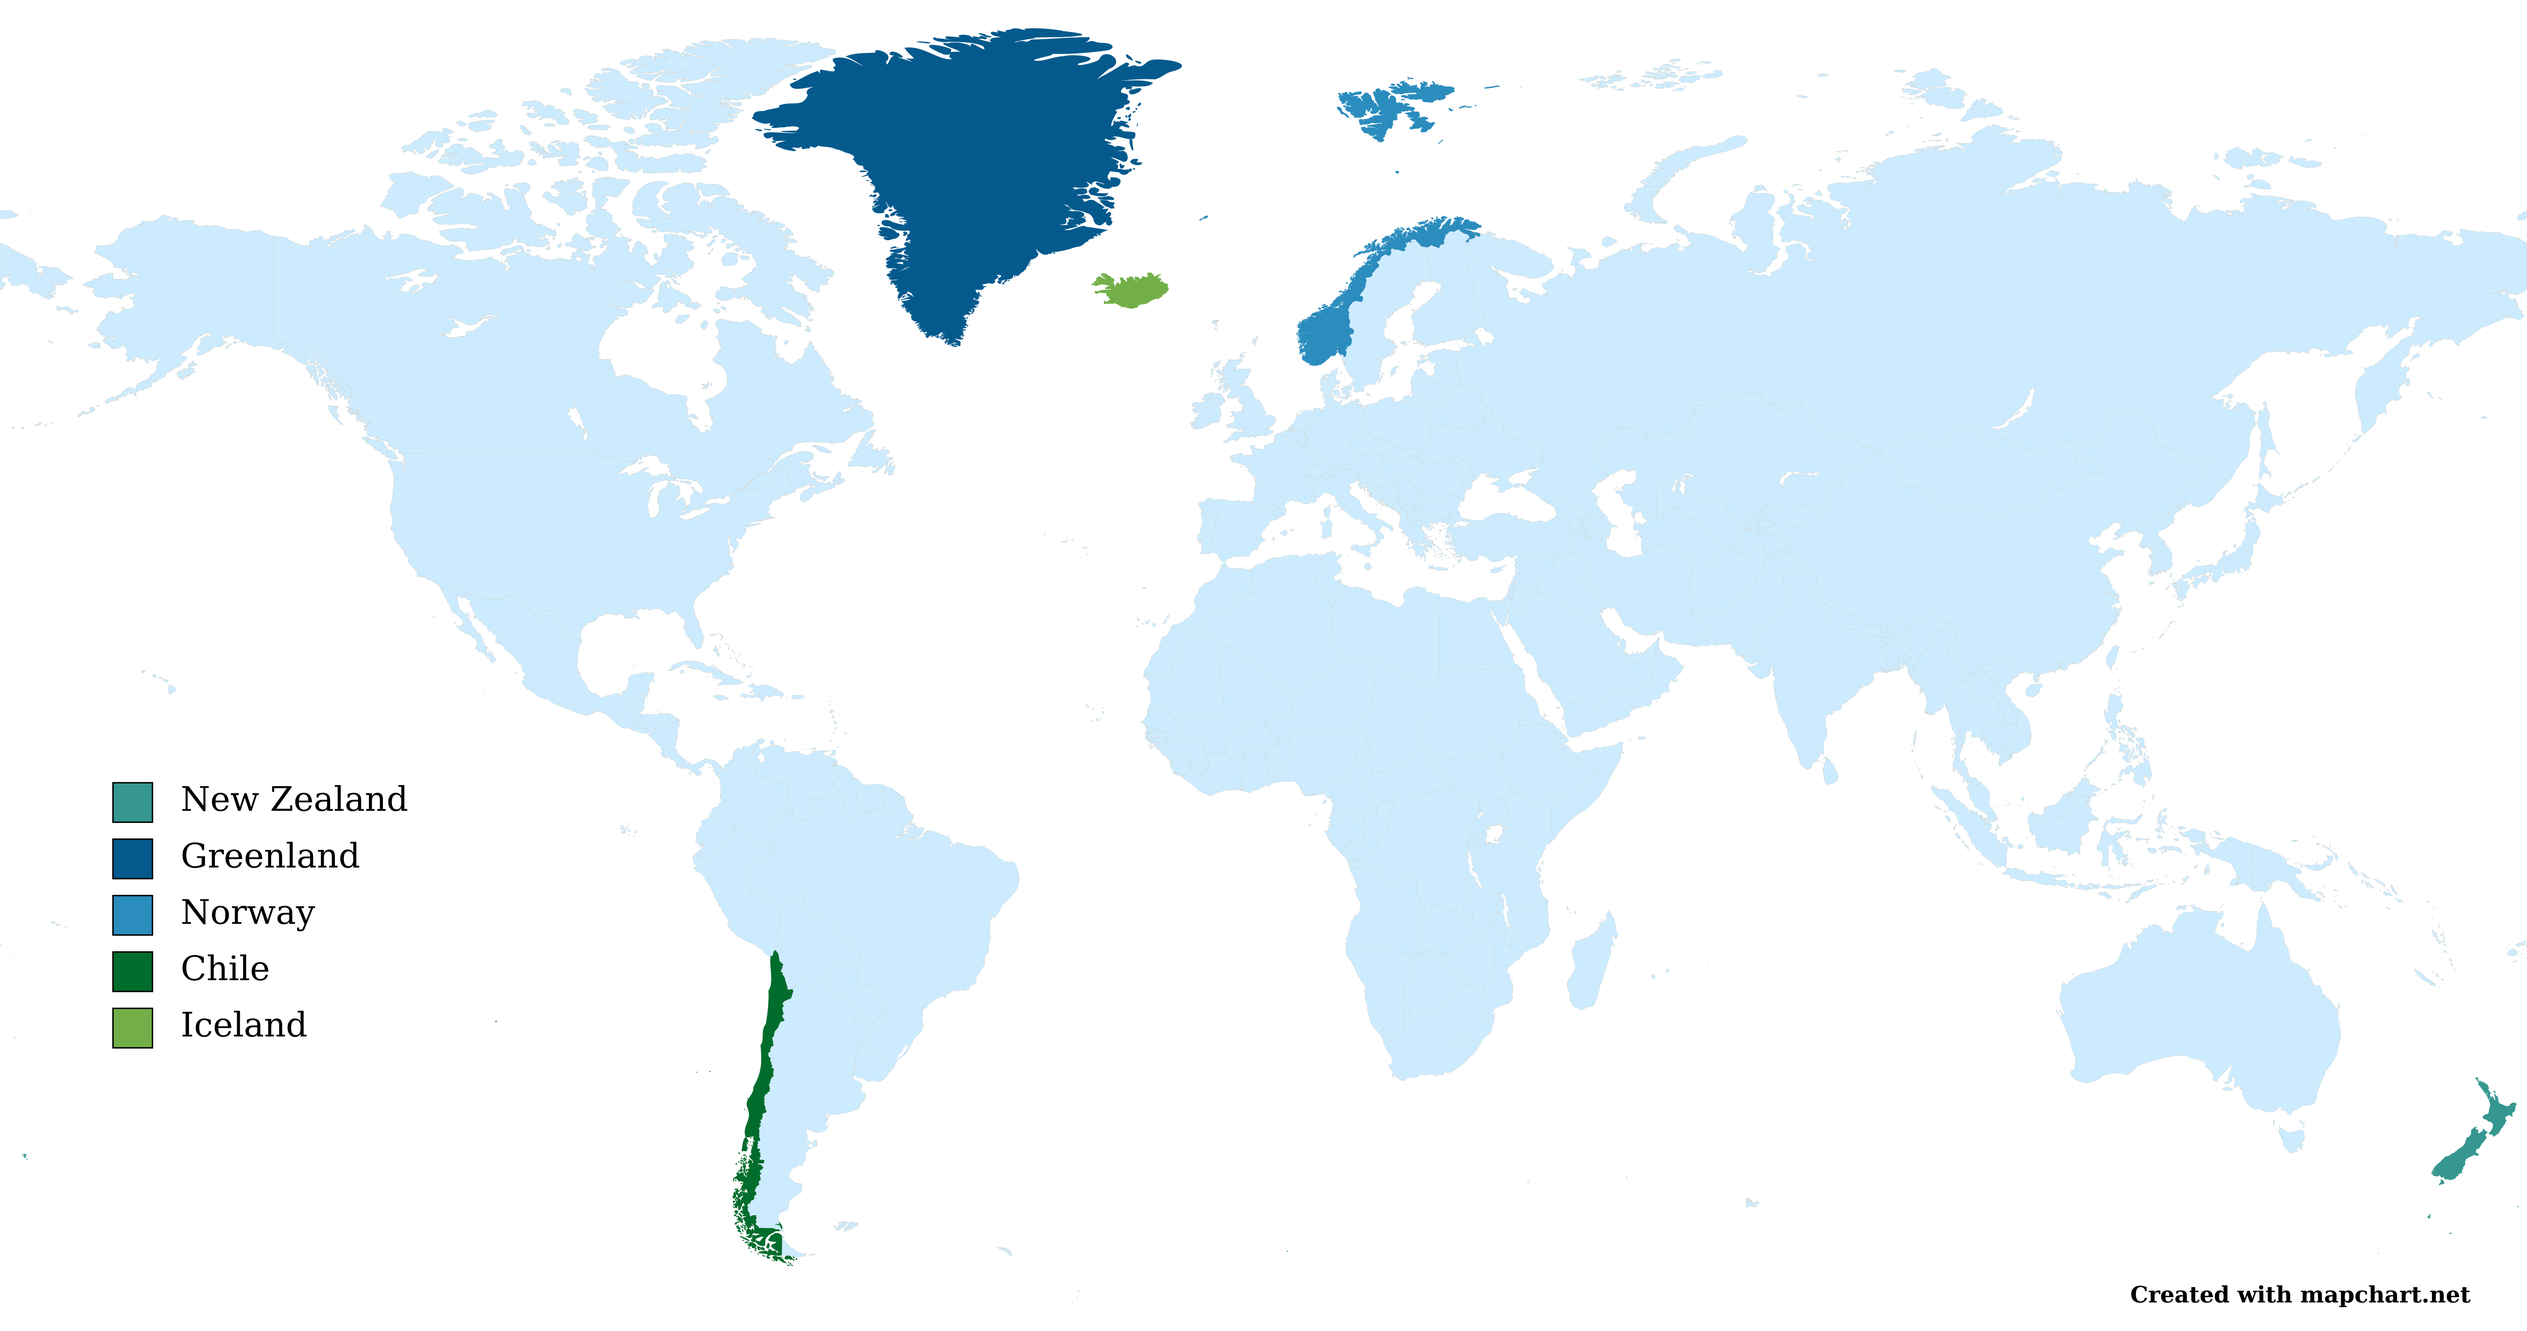
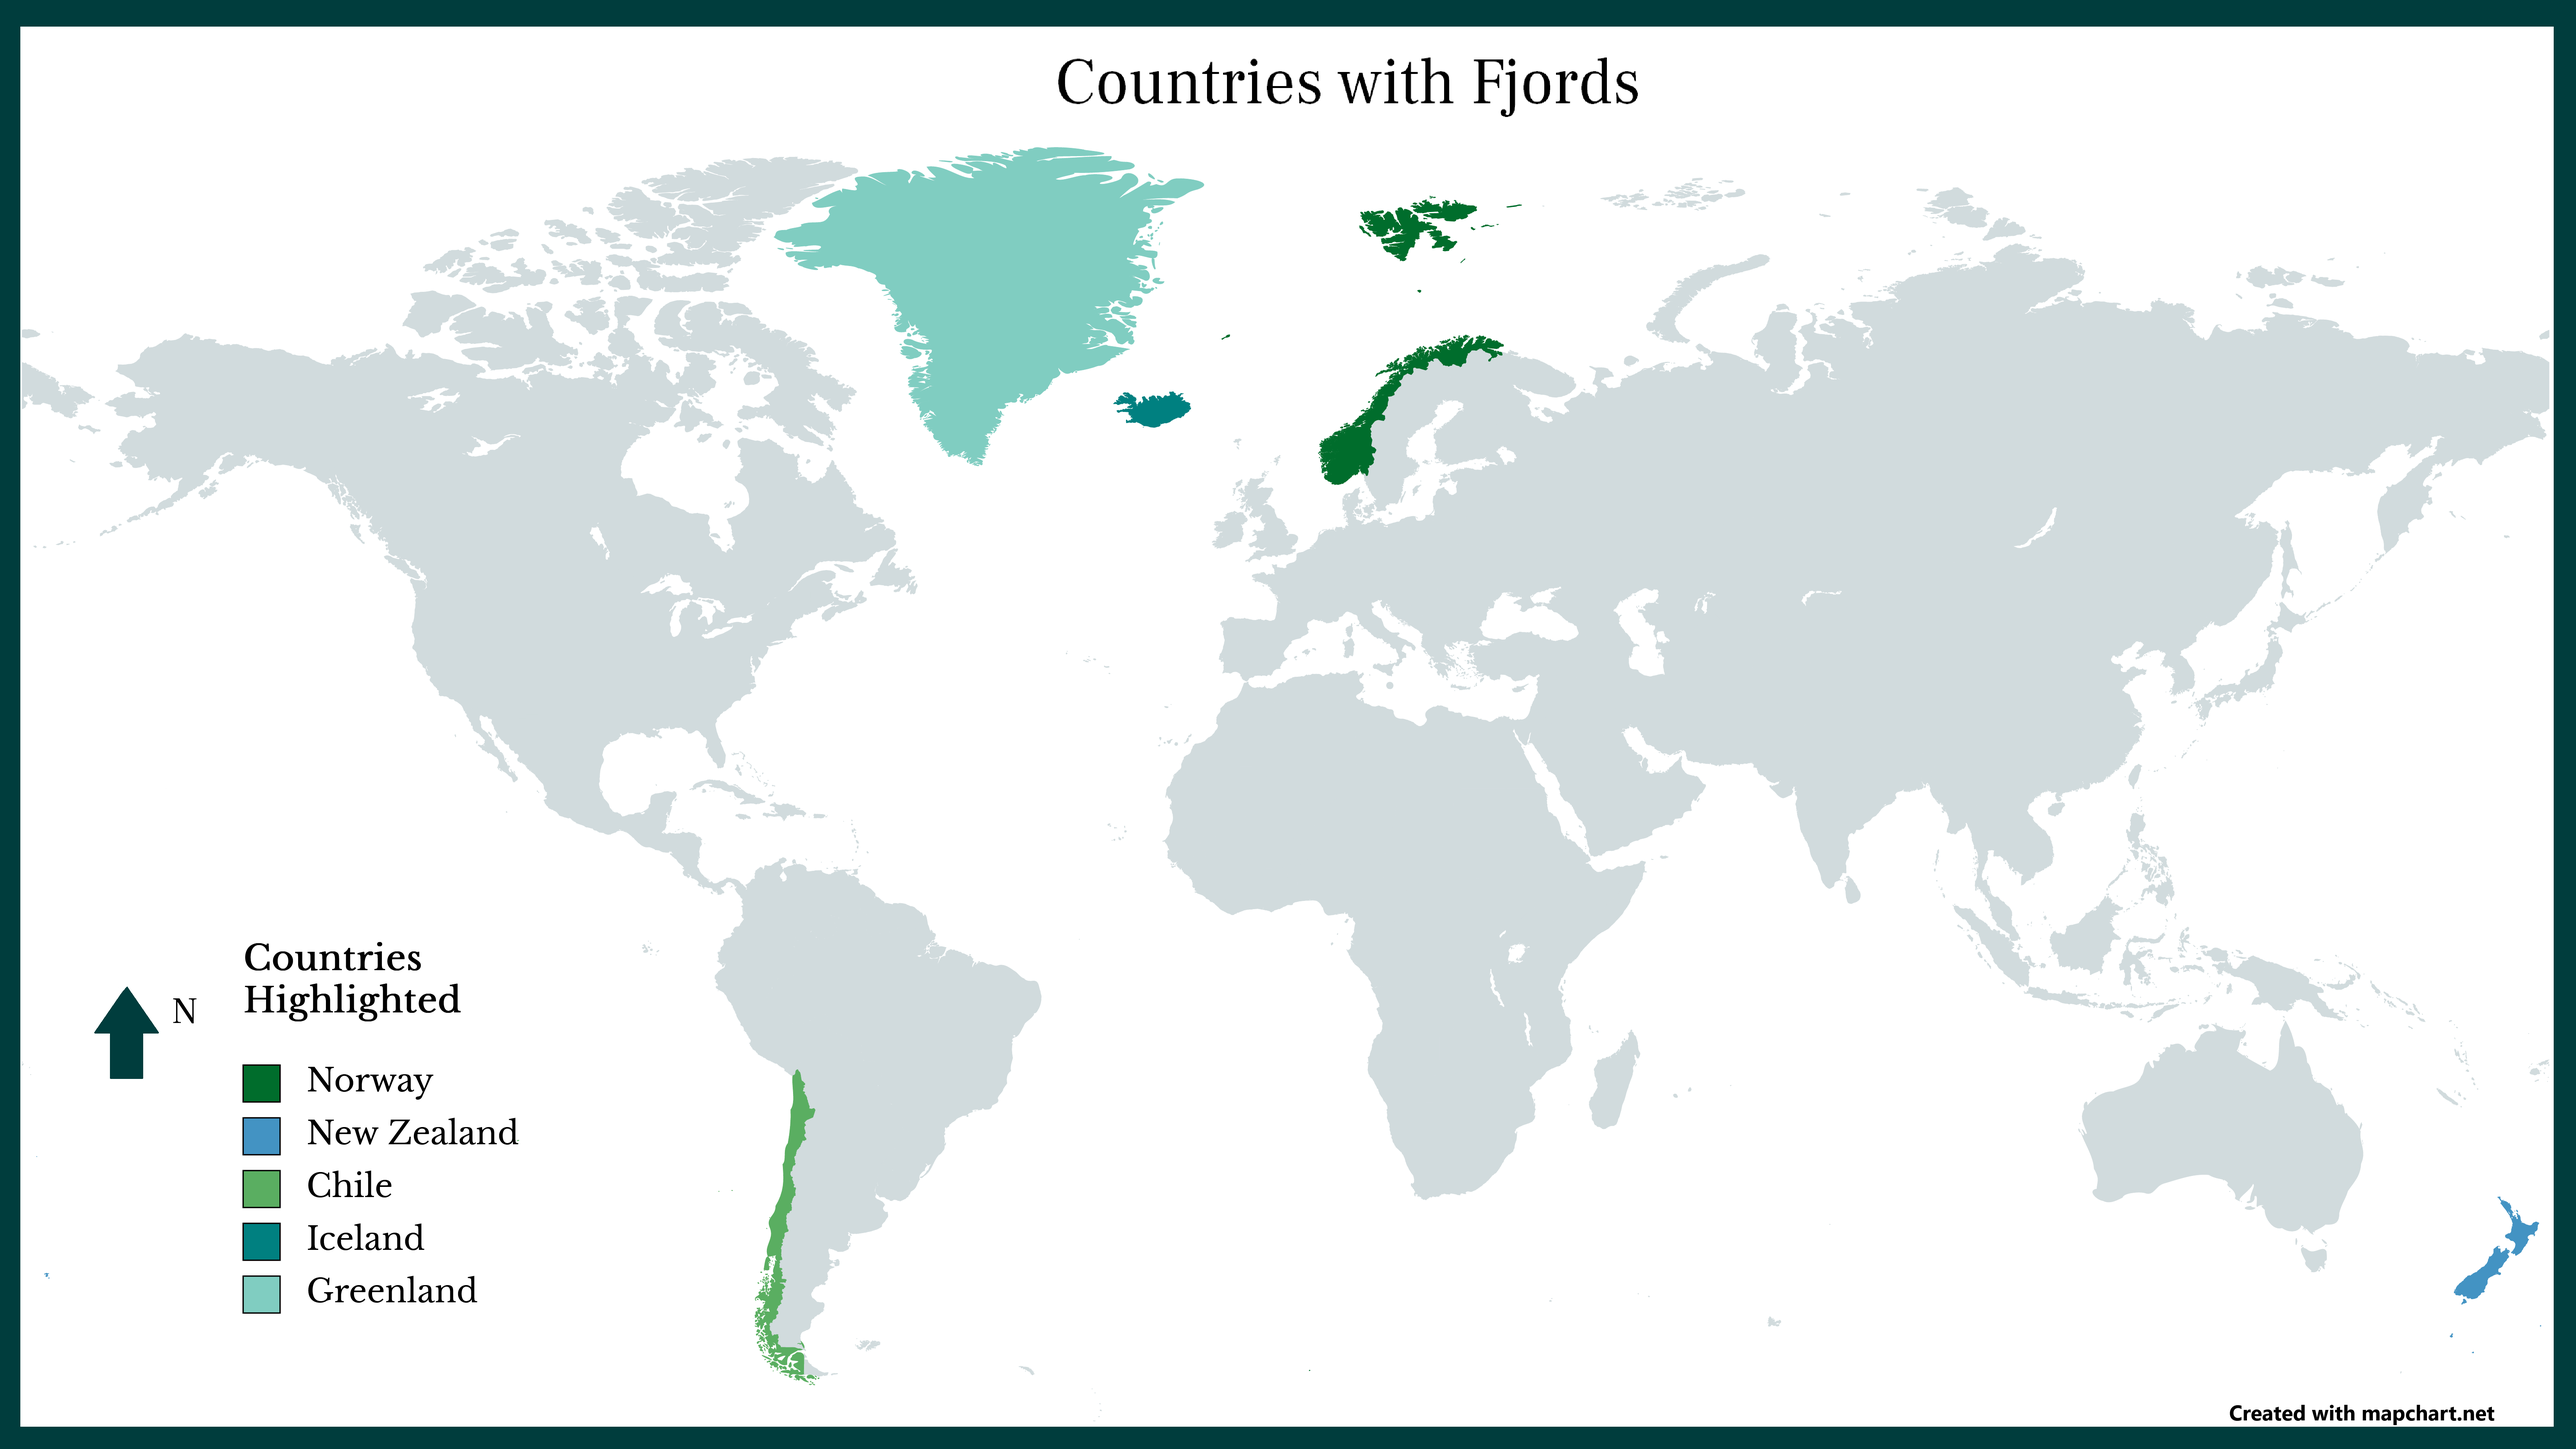
added maps

diff --git a/index.html b/index.html
@@ -23,18 +23,18 @@
  
  <div> <!-- Map of NZ, Norway, and a world map. -->
   <figure>
-  <img src=" " alt="World Map">
+  <img src="./assets/Worldmap" alt="World Map">
   <figcaption>World Map</figcaption>
   </figure>
   
   <figure>
-  <img src=" " alt="Map of Norway">
-  <figcaption>Map of Norway</figcaption>
+  <img src="./assets/norwaymap" alt="Map of Norway">
+  <figcaption>Map of Norway. Source: <a href="https://www.worldatlas.com/maps/norway">World Atlas</a> </figcaption>
   </figure>
   
   <figure>
-  <img src=" " alt="Map of New Zealand">
-  <figcaption>Map of New Zealand</figcaption>
+  <img src="./assets/newzealandmap" alt="Map of New Zealand">
+  <figcaption>Map of New Zealand. Source: <a href="https://www.worldatlas.com/maps/new-zealand">World Atlas</a> </figcaption>
   </figure>
  
  </div>
@@ -78,7 +78,7 @@
  
  <div> <!-- EGU logo -->
  <figure>
- <img src="./assets/EGUlogo.png" alt="EGU logo">
+ <img src="./assets/EGUlogo.png" alt="EGU logo" width="200" height="200">
  <figcaption>Source: <a href="https://www.pik-potsdam.de/en/institute/departments/activities/copan/activities/logo-egu/view">Potsdam Institute for Climate Impact Research</a> </figcaption>
  </figure> 
  </div>
@@ -89,7 +89,7 @@
  
  <div> <!-- image of arrhenius -->
  <figure>
- <img src="./assets/Arrhenius.jpg" alt="Svante Arrhenius, Swedish chemist">
+ <img src="./assets/Arrhenius.jpg" alt="Svante Arrhenius, Swedish chemist" width="230" height="300">
  <figcaption>Svante Arrhenius, Swedish chemist. Source: <a href="https://commons.wikimedia.org/wiki/File:Arrhenius2.jpg">Wikimedia commons</a> </figcaption>
  </figure>
  </div>
